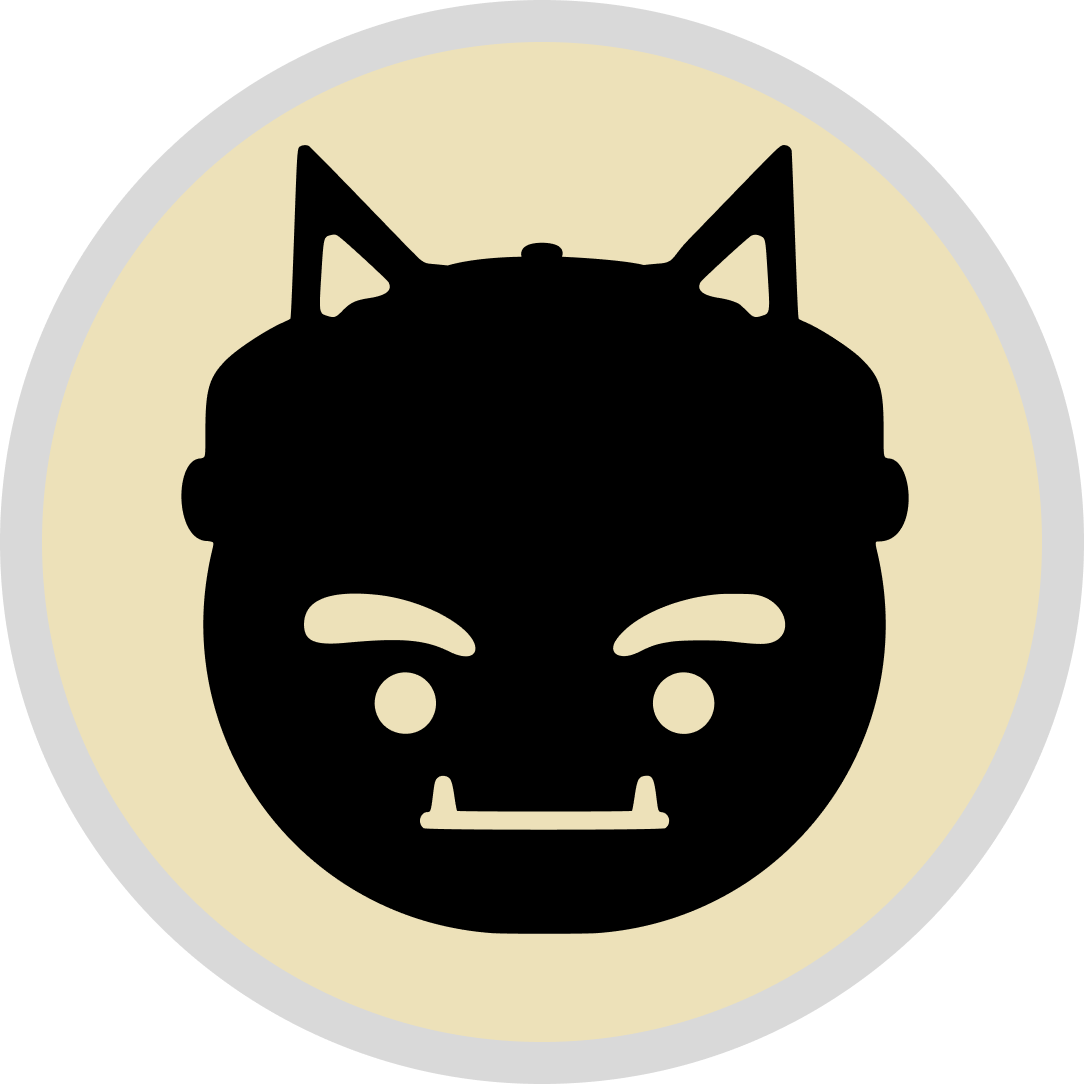
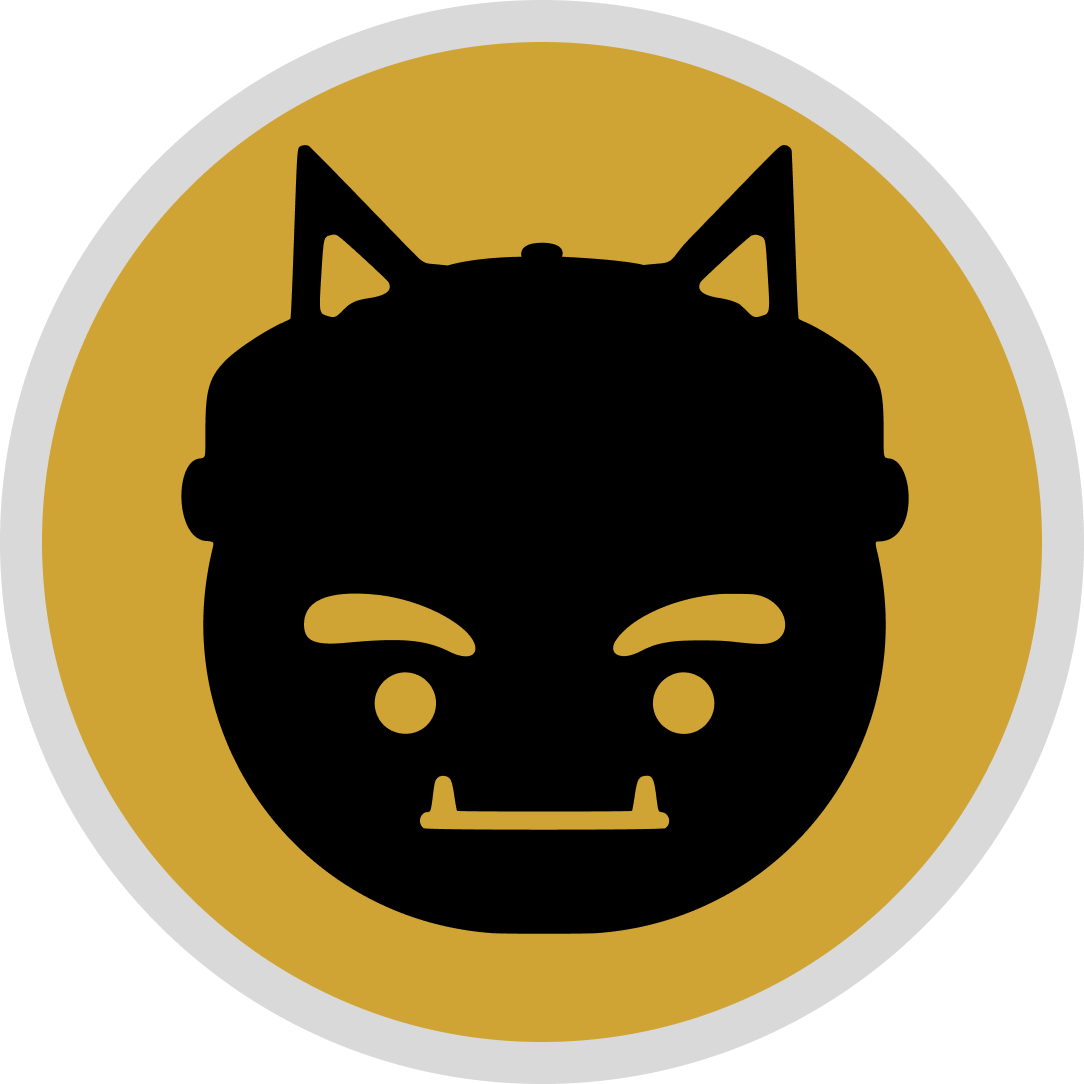
update ONI

diff --git a/src/pages/oniboi.js b/src/pages/oniboi.js
@@ -1,27 +1,43 @@
-import { useState, useEffect } from "react";
+import { useState, useEffect, useRef } from "react";
 import { motion, AnimatePresence } from "framer-motion";
 import OniNavbar from "../components/Navbar/oniNavBar";
 
 export default function OniBoi() {
   const [step, setStep] = useState(-1); // Start before first step
+  const [reveal, setReveal] = useState(false); // control background reveal swipe
+  const [isIntro, setIsIntro] = useState(true); // switch className after intro
 
-  // Delay the very first phrase by 2 seconds
+  const menuRef = useRef(null);
+
+  const scrollToMenu = () => {
+    if (menuRef.current) {
+      menuRef.current.scrollIntoView({ behavior: "smooth" });
+    }
+  };
+
+  // Delay the very first phrase by 1 second
   useEffect(() => {
-    const timer = setTimeout(() => setStep(0), 2000);
+    const timer = setTimeout(() => setStep(0), 1000);
     return () => clearTimeout(timer);
   }, []);
 
-  // Variants for fade in/out
+  // Variants for fade in/out text
   const fadeVariants = {
     hidden: { opacity: 0 },
     visible: { opacity: 1, transition: { duration: 1.5 } },
-    exit: { opacity: 0, transition: { duration: 0.8 } },
+    exit: { opacity: 0, transition: { duration: 1.0 } },
   };
 
   // NavBar animation (fall down)
   const navVariants = {
     hidden: { y: -100, opacity: 0 },
     visible: { y: 0, opacity: 1, transition: { duration: 1, ease: "easeOut" } },
+  };
+
+  // Background reveal swipe
+  const revealVariants = {
+    hidden: { y: 0 },
+    visible: { y: "100%", transition: { duration: 1, ease: "easeInOut" } },
   };
 
   // Steps text
@@ -34,19 +50,26 @@ export default function OniBoi() {
   // Handle transitions
   const handleAnimationComplete = () => {
     if (step < steps.length - 1) {
-      setTimeout(() => setStep(step + 1), 500); // quick pause before next fade in
+      setTimeout(() => setStep(step + 1), 500);
     } else {
-      setTimeout(() => setStep(steps.length), 500);
+      setTimeout(() => {
+        setStep(steps.length);
+        setReveal(true);
+        // Switch className after reveal animation
+        setTimeout(() => setIsIntro(false), 1000);
+      }, 500);
     }
   };
 
   return (
-    <div className="oni min-h-screen flex items-center justify-center bg-black relative">
+    <div
+      className={`${isIntro ? "intro-text" : "oni"} min-h-screen flex flex-col items-center justify-center relative overflow-hidden`}
+    >
       <AnimatePresence mode="wait">
         {step >= 0 && step < steps.length ? (
           <motion.h1
             key={steps[step].text}
-            className="text-white font-roboto text-5xl md:text-7xl font-bold text-center"
+            className="text-[#CFA434] font-roboto text-7xl md:text-9xl font-bold text-center"
             variants={fadeVariants}
             initial="hidden"
             animate="visible"
@@ -57,6 +80,20 @@ export default function OniBoi() {
           </motion.h1>
         ) : step >= steps.length ? (
           <>
+            {/* Overlay swipe reveal */}
+            <AnimatePresence>
+              {reveal && (
+                <motion.div
+                  key="reveal"
+                  className="absolute inset-0 bg-black z-40"
+                  variants={revealVariants}
+                  initial="hidden"
+                  animate="visible"
+                  exit="visible"
+                />
+              )}
+            </AnimatePresence>
+
             {/* Falling NavBar */}
             <motion.div
               className="fixed top-0 left-0 right-0 z-50"
@@ -70,18 +107,45 @@ export default function OniBoi() {
             {/* Main Page Content */}
             <motion.div
               key="main-content"
-              className="w-full h-full flex flex-col items-center justify-center p-6"
+              className="w-full min-h-screen flex flex-col items-center justify-center p-6"
               initial={{ opacity: 0 }}
-              animate={{ opacity: 1, transition: { duration: 1.5 } }}
+              animate={{ opacity: 1, transition: { duration: 2.5, delay: 2 } }}
             >
               {/* --- Vanilla Shell --- */}
-              <h2 className="text-white text-3xl md:text-5xl mb-6 font-roboto font-bold">
-                Main Page Content
+              <h2 className="text-[#CFA434] uppercase text-2xl md:text-7xl mt-1 md:mt-0 mb-6 font-roboto font-bold">
+               Welcome to Oniboi
               </h2>
-              <p className="text-white/80 text-lg max-w-xl text-center">
-                Replace this skeleton with your actual content.
+              <p className="text-white uppercase font-bold text-md md:text-xl max-w-xl text-center">
+                When the clock strikes midnight, the Oni stirs—hungry, restless, searching for something more than the ordinary. Out of the shadows comes Oniboi, where Japanese soul meets late-night mischief, wrapped in rice and a little bit of rebellion.
+
+                Our craft? Onigiri—those humble rice triangles of tradition—reborn with a Western twist. Think smoky, melty, crunchy, saucy—flavors you know but never expected to find tucked inside a rice ball. It’s comfort food with a pulse, heritage with a side of hype.
+
+                At Oniboi, rice isn’t just the vessel—it’s the canvas. We’re painting in bold strokes, from cheeseburger riffs to kimchi-laced fire, giving the midnight snack a new mythology.
+
+                Step into the lore. Bite into the myth.
               </p>
+              <p className="mt-8 text-[#CFA434] uppercase font-bold text-lg md:text-2xl max-w-xl text-center">
+                Oniboi: where rice meets mischief.
+              </p>
+
+              {/* MENU Button */}
+              <button
+                onClick={scrollToMenu}
+                className="mt-10 px-6 py-3 bg-[#CFA434] text-black font-bold rounded-xl hover:bg-[#b8942f] transition"
+              >
+                MENU
+              </button>
             </motion.div>
+
+            {/* Menu Section */}
+            <div ref={menuRef} className="w-full flex flex-col items-center justify-center py-20 bg-black">
+              <h3 className="text-[#CFA434] text-3xl md:text-5xl font-bold mb-8">Our Menu</h3>
+              <img
+                src="/menu-placeholder.jpg"
+                alt="Menu placeholder"
+                className="w-11/12 md:w-2/3 rounded-xl shadow-lg"
+              />
+            </div>
           </>
         ) : null}
       </AnimatePresence>

diff --git a/src/components/Navbar/oniNavBar.js b/src/components/Navbar/oniNavBar.js
@@ -42,7 +42,7 @@ const OniNavbar = () => {
     }
   }, [scrolling, controls]);
    function handleHome() {
-    navigate("/");
+    navigate("/ONIBOI");
    };
   return (
     <AnimatePresence mode="wait">
@@ -57,31 +57,30 @@ const OniNavbar = () => {
       }`}
       initial={{ opacity: 0, y: -300 }}
       animate={controls}
-     
     >
-      <div className="grid grid-cols-3 md:space-x-4 md:pt-2 mt-2 text-2xl md:text-[3rem] w-full flex items-center">
+      <div className="grid grid-cols-3 md:pt-2 mt-2 text-2xl md:text-[3rem] w-full flex items-center">
         <div className=''>
-        <p onClick={handleHome} className={isTransparent ? 'font-roboto -mt-6 w-[1rem] md:w-max md:visible text-[2rem] md:text-[6rem] text-[#FD3E31] hover:cursor-pointer md:drop-shadow-[4px_4px_0px_#FFB91D]' : 'font-roboto text-[#FD3E31] -mt-3 w-[1rem] md:w-max text-[2rem] md:text-[6rem] hover:cursor-pointer md:drop-shadow-[4px_4px_0px_#FFB91D]'}>ONI BOI</p>
+        <p onClick={handleHome} className={isTransparent ? 'font-roboto -mt-6 w-[1rem] md:w-max md:visible text-[2rem] md:text-[6rem] text-[#CFA434] hover:cursor-pointer' : 'font-roboto text-[#DE3926] -mt-3 w-[1rem] md:w-max text-[2rem] md:text-[6rem] hover:cursor-pointer'}>ONI BOI</p>
         </div>
-        <div className='text-start -ml-8 md:ml-8 space-x-12 md:space-x-[13rem] text-xl md:text-[3rem] flex flex-row'>
-          <div className='w-[2rem] h-[2rem] pl-6 md:pl-0 text-center'>
+        <div className='text-xl md:text-[4rem]'>
+          {/* <div className='w-[2rem] h-[2rem] pl-6 md:pl-0 text-center'>
         <a href="/menus" className={isTransparent ? "md:hover:text-[3.2rem] aa" : "md:hover:text-[5.2rem] ab"}>
             Menu
         </a>
-        </div>
-        <div className='w-[2rem] h-[2rem]'>
+        </div> */}
+        {/* <div className='w-[2rem] h-[2rem]'>
         <a href="/catering" className={isTransparent ? "md:hover:text-[3.2rem] aa" : "md:hover:text-[5.2rem] ab"}>
           Catering
         </a>
-        </div>
-        <div className='w-[2rem] h-[2rem] z-50'>
+        </div> */}
+        {/* <div className='w-[2rem] h-[2rem] z-50 '>
         <a href="/merch" className={isTransparent ? "md:hover:text-[3.2rem] aa" : "md:hover:text-[5.2rem] ab"}>
           Merch
         </a>
-        </div>
+        </div> */}
         </div>
         <div className='items-end text-end justify-end flex z-10'>
-        <a href="/about" className="">
+        <a href="/ONIBOI" className="">
         <img
         src={logo}
         alt="Icon"

diff --git a/src/pages/home.css b/src/pages/home.css
@@ -15,6 +15,25 @@
       transform: rotateY(0);
     }
   }
+    .intro-text {
+    background-color: black;
+    background-size: contain;
+    background-position: center;
+    background-attachment: fixed;
+    background-repeat: no-repeat;
+    opacity: 1;
+    -webkit-background-size: contain;
+    -moz-background-size: cover;
+    -o-background-size: cover;
+}
+
+@media only screen and (max-width: 600px) {
+    .intro-text {
+        background-attachment: scroll;
+        background-size: cover;
+    }
+}
+
   .oni {
     background: url("../assets/images/godzillaBranded.png");
     background-color: black;

diff --git a/src/components/Navbar/navbar.css b/src/components/Navbar/navbar.css
@@ -22,6 +22,18 @@
     transition: all 0.3s ease-in-out;
 }
 
+.abc {
+    background-image: linear-gradient(to right, #DE3926, #DE3926 50%, #DE3926 50%);
+    background-size: 200% 100%;
+    background-position: -100%;
+    display: inline-block;
+    padding: 18px 0;
+    position: relative;
+    -webkit-background-clip: text;
+    -webkit-text-fill-color: transparent;
+    transition: all 0.3s ease-in-out;
+}
+
 .aa:hover {
     background-position: 0;
 }
